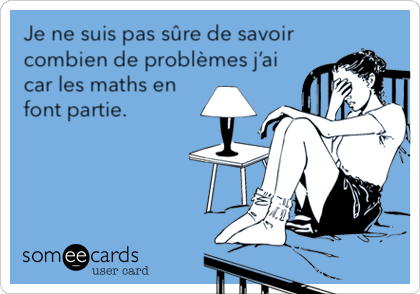
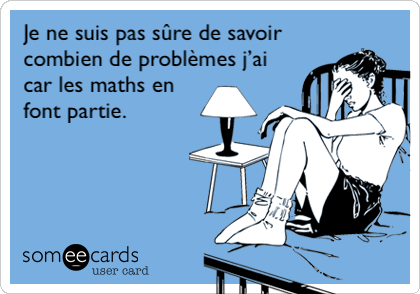
image nb prb maths

Changed region(s): [[0.031, 0.0612, 0.7119, 0.4286]]

diff --git a/cours-maths-info.md b/cours-maths-info.md
@@ -5,7 +5,7 @@ title: Cours Maths Infos
 
 # Cours particuliers de mathématiques et d'informatique
 
-<img alt="Humour — Je ne suis pas sûre de savoir combien de problèmes j'ai car les maths en font partie." src="assets/images/humour-pas-sure-nb-prb-maths.png" style="height: 55mm; margin-left: auto; margin-right: auto; margin-top: 1em;">
+<img alt="Humour — Je ne suis pas sûre de savoir combien de problèmes j'ai car les maths en font partie." class="center" src="assets/images/humour-pas-sure-nb-prb-maths.png" style="height: 240px; margin-top: 26px;">
 
 ## Présentation
 
